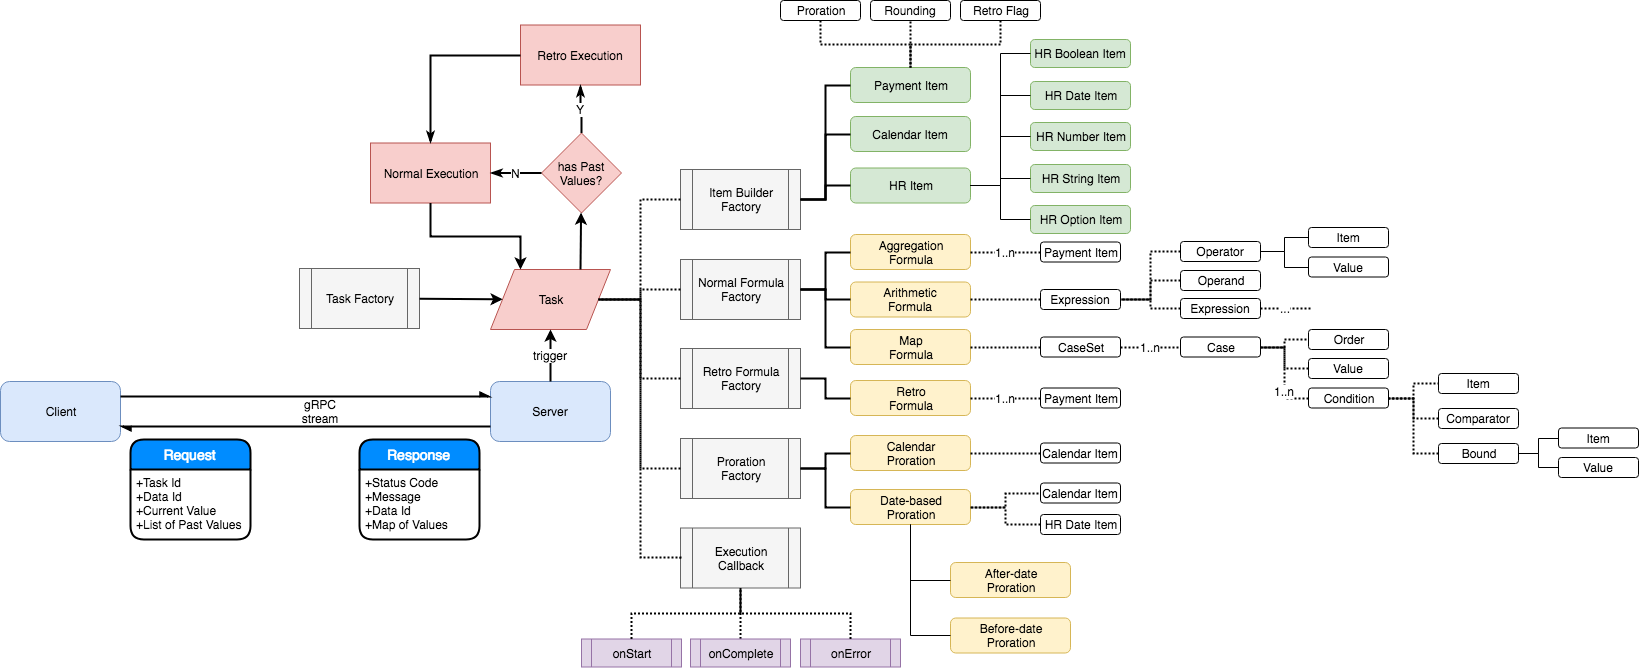
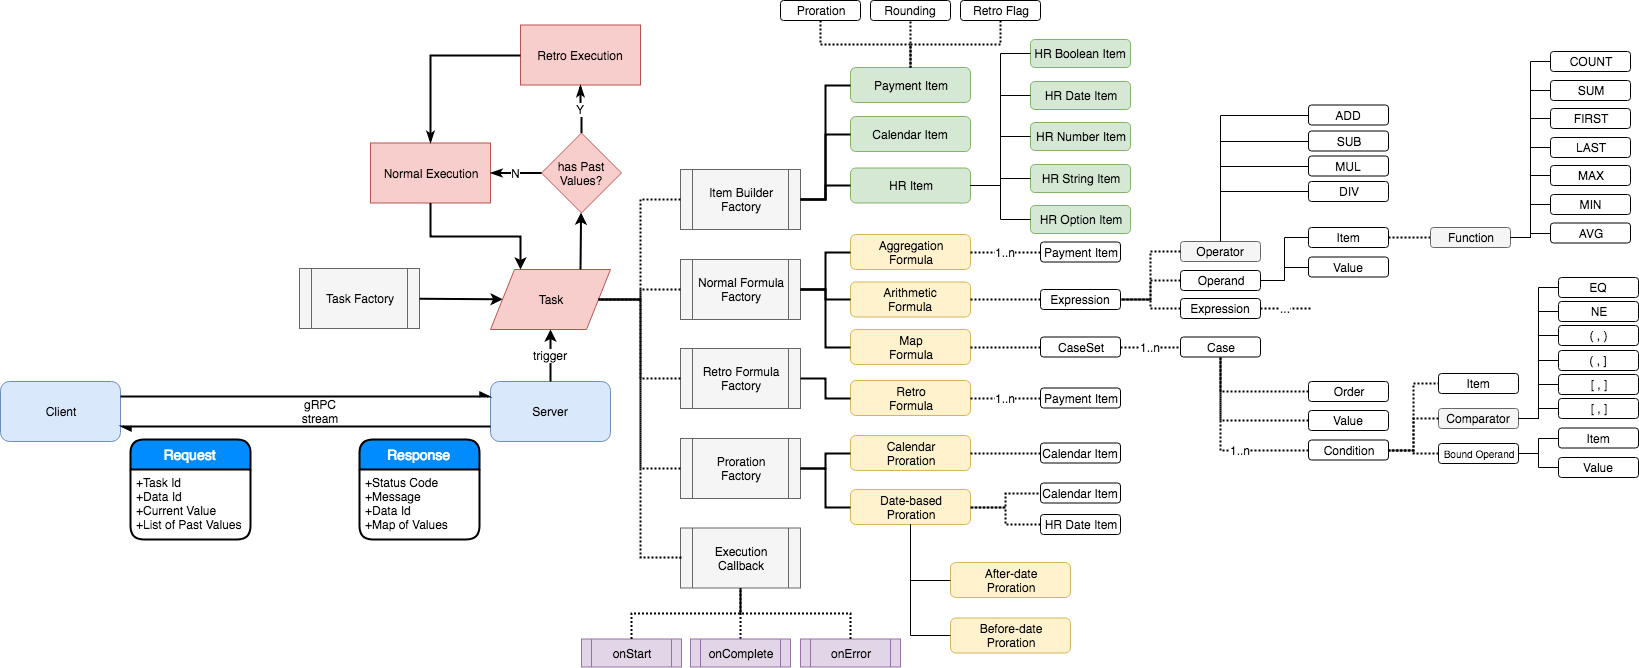
[calc-core]update readme

diff --git a/calc-core/README.md b/calc-core/README.md
@@ -1,15 +1,101 @@
 # Payroll Calculation Core
 
-## What `Core` Can Do
-1. Provide a unified definition of the data(Item) and rules(Formula) used during the calculation
-1. Calculate the result based on the given data set and rules 
-1. Offers a single interface for caller to execute the normal or retroactive calculation
-1. Handle the changes of formula within a execution period
-1. handle the changes of item value within a execution period
-1. Prorate item value based on related calendar info
-1. Rounding item value
+The core of payroll provides a general way to organize all payroll related
+definitions and offer clients a unified way for all kinds of calculation.
 
-## What `Core` Can Not Do
+## Overview
+
+> [Google Drive](https://drive.google.com/file/d/1tM96jXBHbzjGYEemqEuiHBpjgKdTb2tw/view?usp=sharing)
+
+![overview](doc/pics/overview.png)
+
+## C/S Structure
+The core are divided into client and server, which can run different PCs to offer 
+the scalability to the whole syste.
+
+Client and server communicate using the stream interface provided by gRPC w/ ProtoBuffer.
+
+For more details, please refer the [calc-core.proto](/src/main/proto/calc-core.proto)
+
+## Task
+Task means a type of a job. A server is able to execute different tasks based on the 
+task id given by the client. Moreover, client can pass different task id in the same
+stream in order to perform different tasks.
+
+## Execution
+For each frame received from the stream, a task execution will be created based on the task definition.
+A frame is a complete set of data in order to perform the calculation for an indentity in a given period,
+typically, the information of an employee in the monthly payroll calculation, indentified by employee id.
+
+A task execution contains a execution context and a execution callback.
+
+The execution context is initialized with data received from stream frame. During the execution, 
+it holds all the intermediate results as well as the final the results. After the exeuction, it 
+will be returned to the client as response.
+
+The execution callback provides an entry point to access data when execution start, success or fail. 
+With the help of callback, we can handle the execution results as well as the errors during the execution.
+
+## Item
+Items are entities that hold data to feed the exeuction. Within the execution period, 
+items can have different values. This enables the items to handle data changes 
+within the execution period. Each value of the item is indentifier by its start date.
+
+There are 3 kinds of items:
+* Calendar Items: handle calendar/attendenc related information, like working days, leave, overtime.
+* HR Items: manage the hr related information, like position, citizenship and etc. 
+* Payment Items: contains values for payments, which could be initial values, intermediate results, as well as final results.
+    For Each payment item, different proration rules and rounding rules could be applied.
+
+### Proration
+Each proration rule links with a calender item and decides how to prorate the values of an item.
+
+## Formula
+A formula convert one of several items into values for a target payment item.
+The task execution is actually performing the formulas on related items to get the result for target 
+payment items. 
+
+Same as the items, formulas can have different contents in the execution period as well. 
+
+There are 3 kinds of formula supported by the system:
+* Aggregation formula
+* Arithmetic formula
+* Map formula
+
+### Aggregation Formula
+The aggregation formula sum up the values of a list of items as the values for the target payment item.
+
+### Arithmetic Formula
+The arithmetic formula performs arithmetic operations on a series of items and use the results as the value 
+for the target payment item.
+
+The priority among different operators are supported by [Polish notation](https://en.wikipedia.org/wiki/Polish_notation).
+
+### Map Formula
+The map formula contains a set of cases. Each case maps a value for the target item. 
+If no case matches, a default value will be provided for the target item.
+
+Each case consists of several conditions. In order to match the case, all conditions for that case need to be 
+satisfied. 
+
+### Operand in Formula
+Except the aggregate formula whose operands can only be original values of items, the arithmetic and map
+formula could have both raw values and item values as operand. 
+
+For those items involved in arithmetic and map formula, a additional aggregation function, 
+like COUNT, SUM, AVG, could be applied on the values of that item instead of using its original values.
+
+### Retroactive Formula
+The retroactive calculations are also supported.
+The retroactive formula are evaluated before the normal execution based on the given history values,
+and the difference values will be used in the later execution.
+
+## TODO
+1. convert Runnable to Callable
+2. add load balance between client and server
+
+
+## What Core Can Not Do
 1. Fetch data set for the calculation
 1. Manage calendar information, like, attendence, leave, shift.
 1. Handle interface for external data
@@ -19,8 +105,12 @@
 1. Workflow control
 1. Task scheduler
 
-## Overview
 
-> [Google Drive](https://drive.google.com/file/d/1tM96jXBHbzjGYEemqEuiHBpjgKdTb2tw/view?usp=sharing)
+## Scenarios
+1. Fixed Salary + Unfixed Salary
+1. Link Fixed Salary with HR information, like position
+1. Proration based on attendence information
+1. Aggregation
+1. Retroactive
+1. ...
 
-![overview](doc/pics/overview.png)

diff --git a/README.md b/README.md
@@ -4,7 +4,7 @@ A **extensible** and **scalable** payroll system based on items and related rule
 
 ## Overview
 
-* [X] Calc Core
+* [X] [Calc Core](/calc-core/README.md)
     The core functions and components related to the calculation.
     ![Overview](calc-core/doc/pics/overview.png)
 * [X] Component Storage
